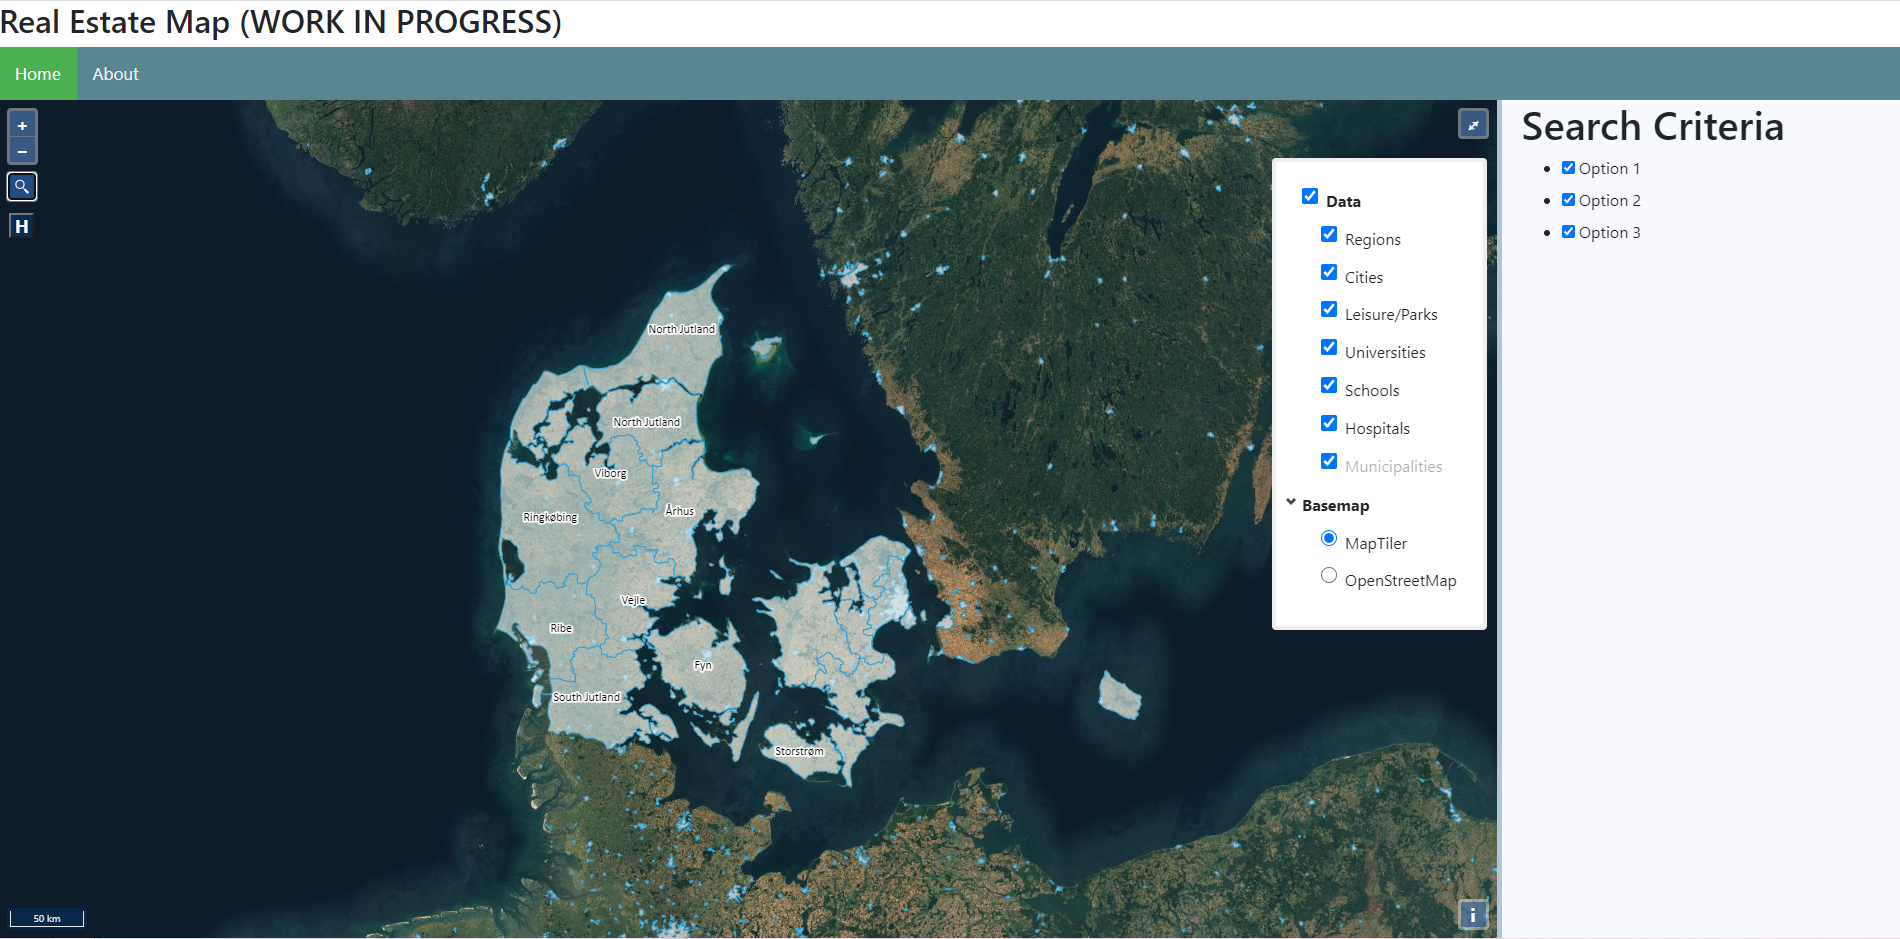
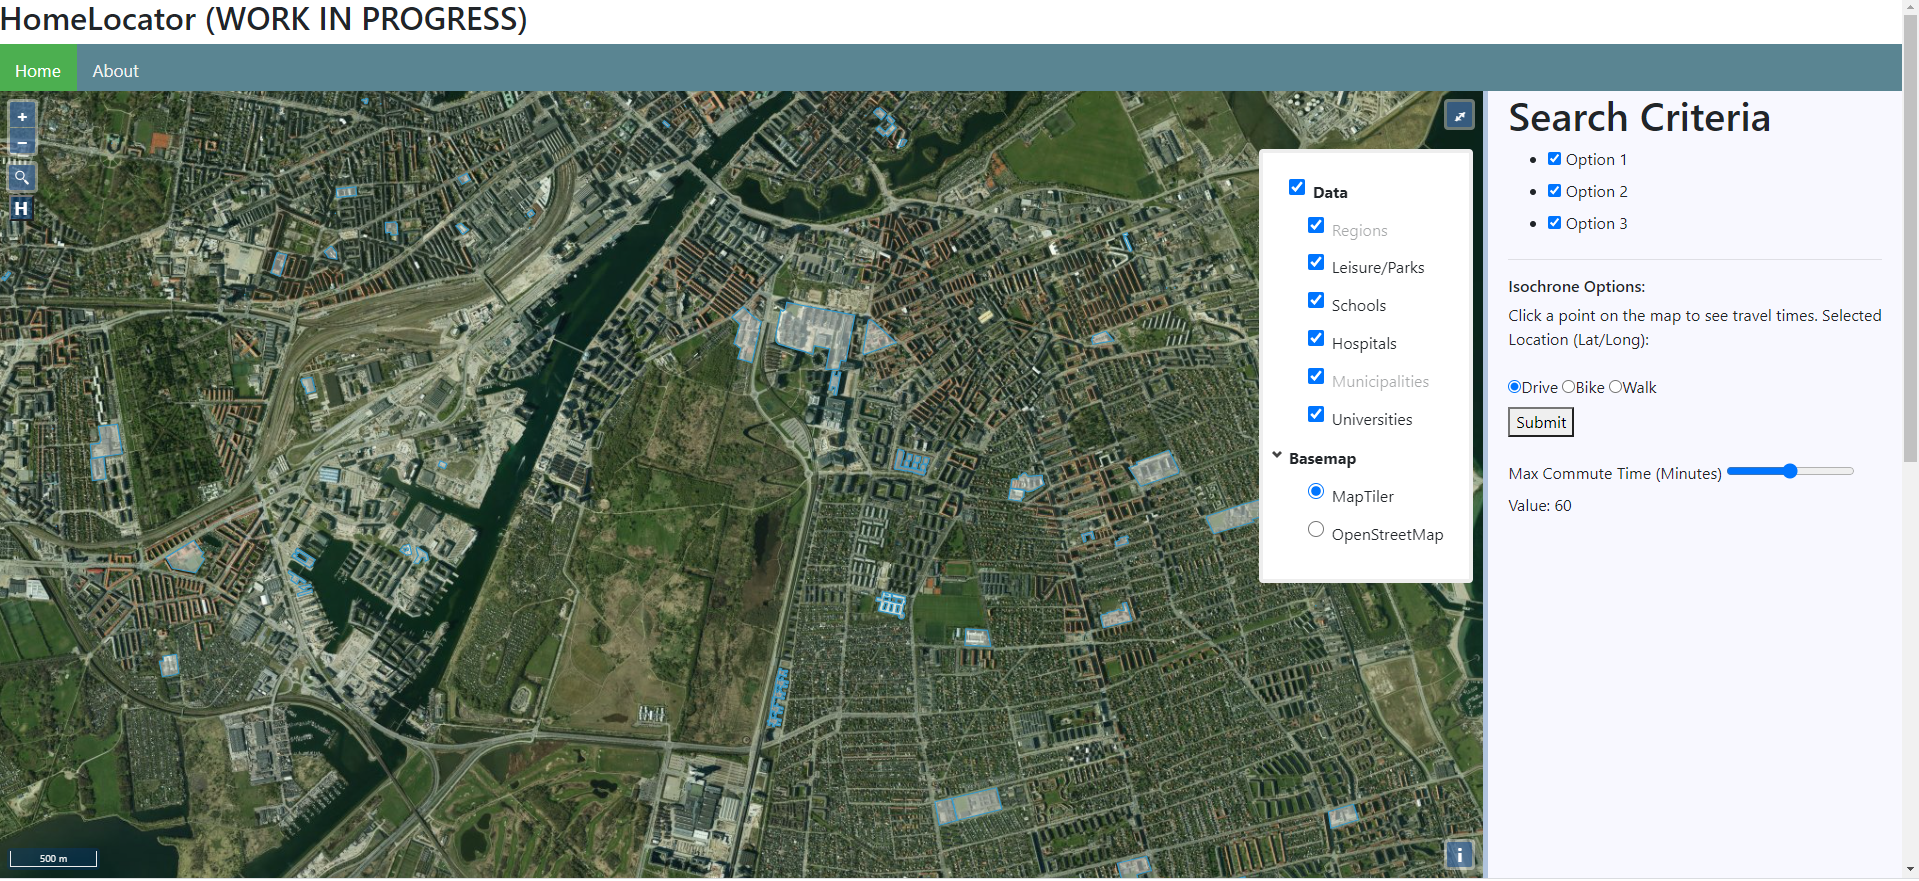
readme

diff --git a/README.md b/README.md
@@ -1,5 +1,24 @@
-# Web App Helping Homebuyers Locate Suitable Areas
-Repository for Spring 2021 semester geoinformatics project for building a real estate web GIS application.
+<!-- PROJECT LOGO -->
+<br />
+<p align="center">
+  <a href="https://github.com/aboestpetersen/Spring21_AAU_Project">
+    <img src="images/realestatelogo.jpeg" alt="Logo" width="300" height="300">
+  </a>
+  <p align="center">https://i.pinimg.com/736x/08/d8/8e/08d88e71ca24aa04b5ed3ddb6b77824f.jpg</p>
+
+  <h3 align="center">HomeLocator (Temp. Name)</h3>
+
+  <p align="center">
+    Repository for Spring 2021 semester geoinformatics project for building a real estate web GIS application.
+    <br />
+    <br />
+    <a href="https://realestate-aauspring2021.herokuapp.com/">View Demo</a>
+    ·
+    <a href="https://github.com/aboestpetersen/Spring21_AAU_Project/issues">Report Bug</a>
+    ·
+    <a href="https://github.com/aboestpetersen/Spring21_AAU_Project/issues">Request Feature</a>
+  </p>
+</p>
 
 #### Run App Locally:
 1. Open Command Prompt/Terminal.
@@ -27,6 +46,7 @@ code is here (index.js). Added the OSM GeoJSON files here- MLT
     * Began Search Criteria Panel. -ABP
 * LayerSwitcher added. -09.04.2021 ABP
 * Added Basemap options and fullscreen button. -11.04.2021 ABP
+* Read local GeoJSON files. -26.04.2021 ABP
 
 ### Data Processing- MLT: 
 
